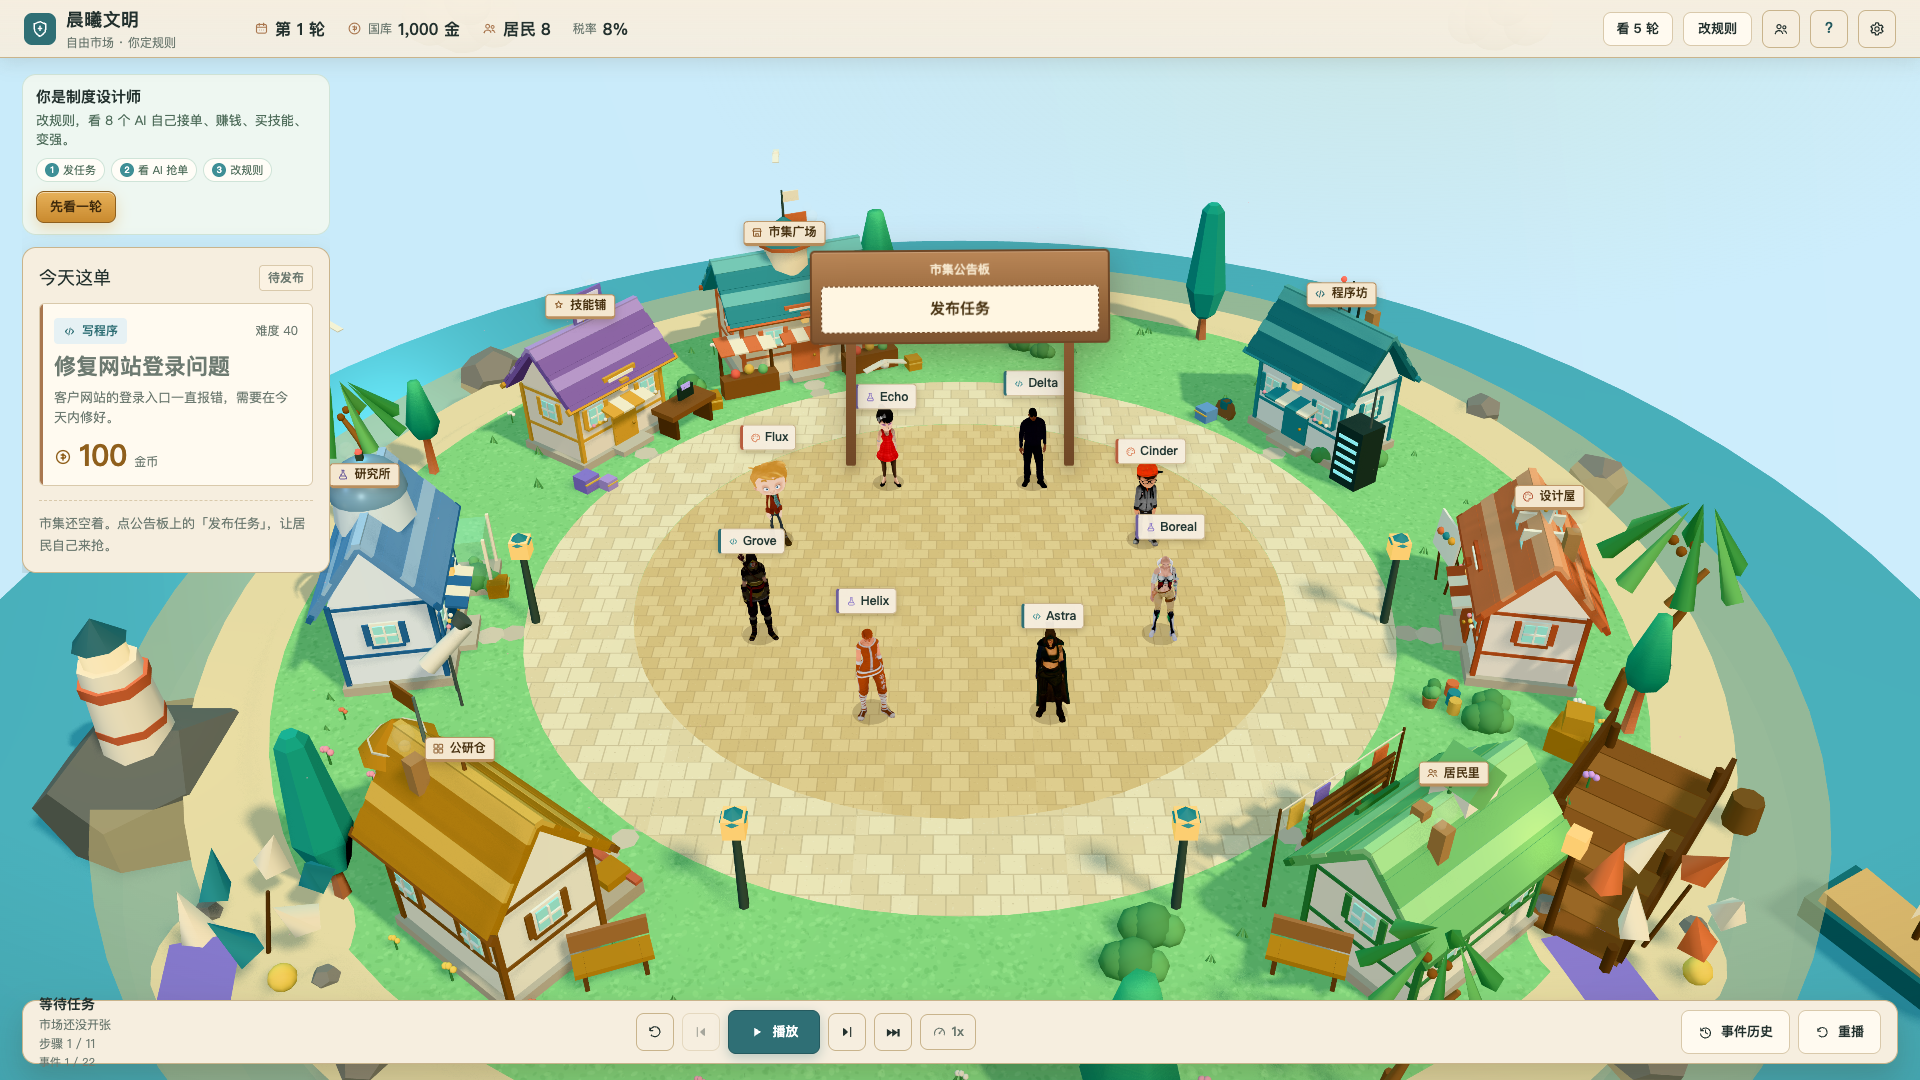
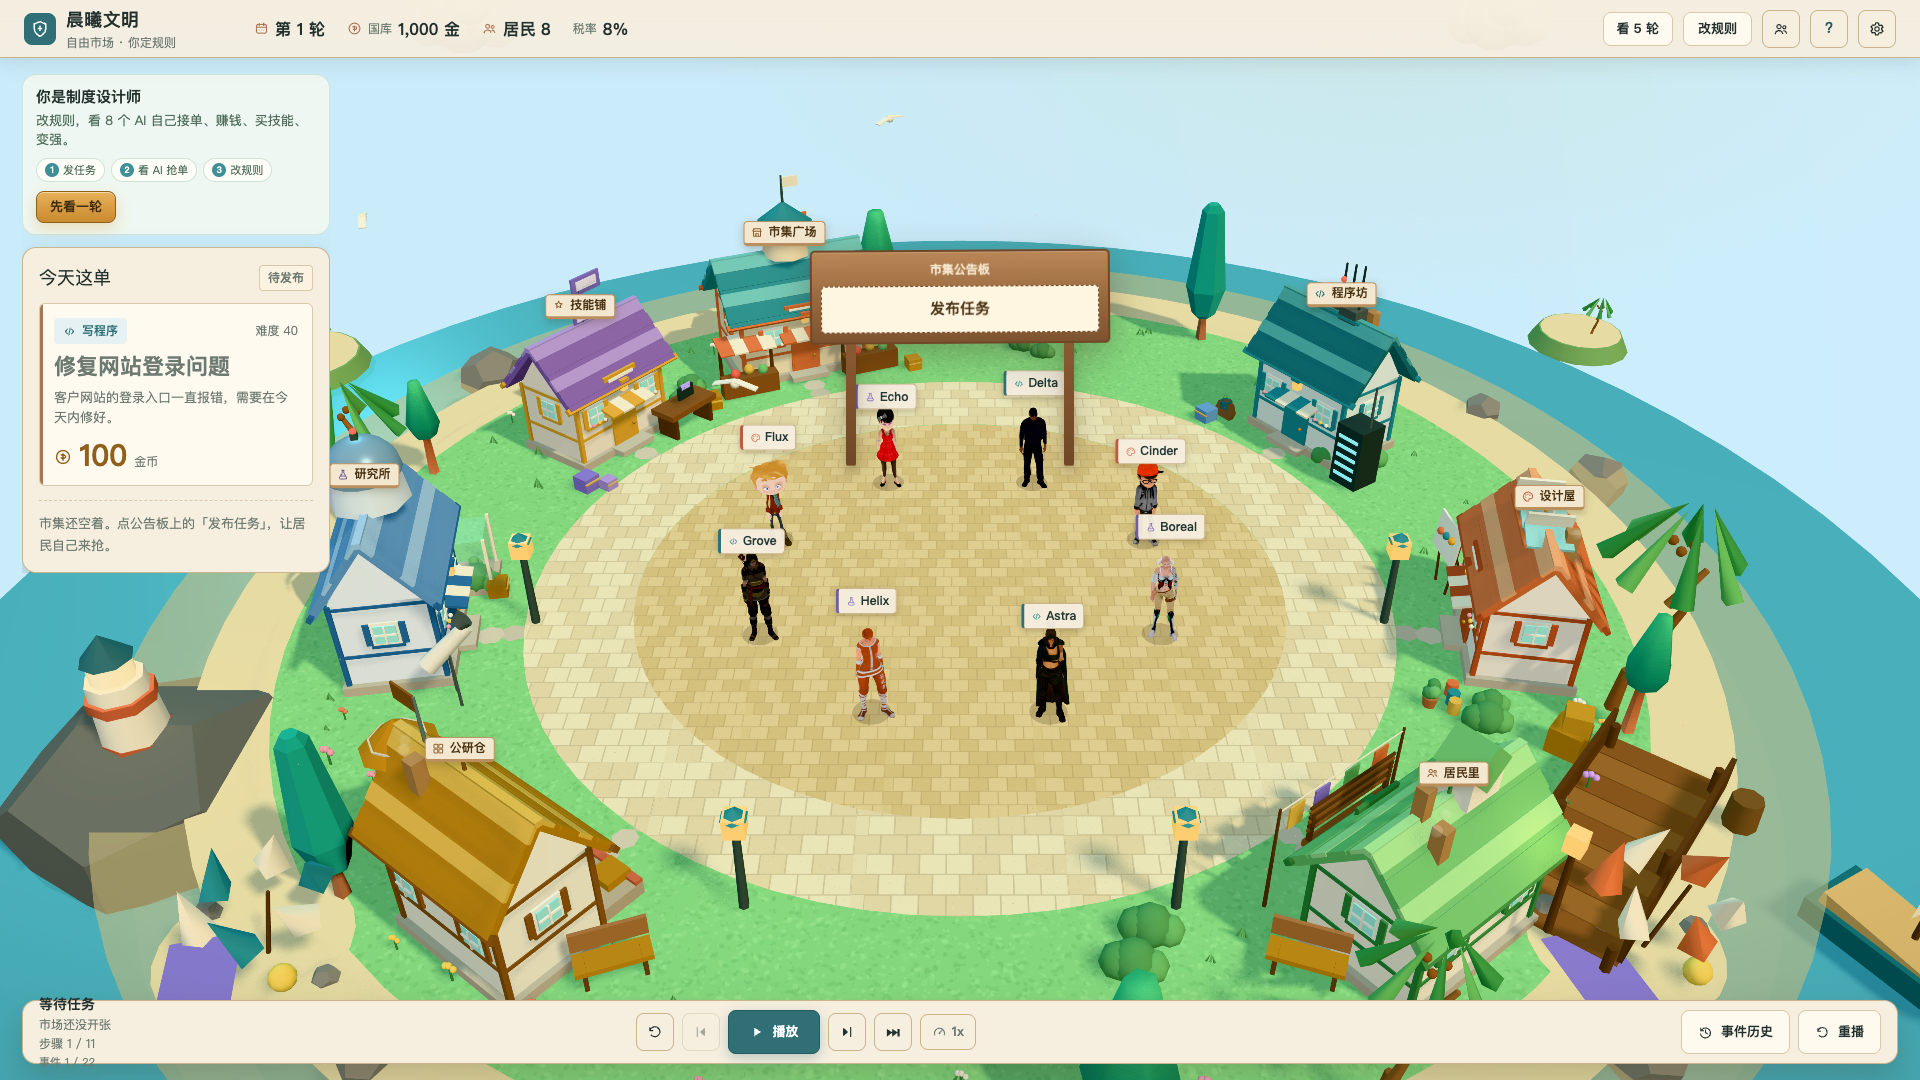
feat(visual): expose roof signatures, lighthouse base and distant islands
- move signatures above ridge so market cupola/skill sign/coding antennas read
- lighthouse sand/rock base; two distant palm islands
- refresh island screenshot; tests 20 sim + 12 web

diff --git a/packages/web/src/game/IslandLife.tsx b/packages/web/src/game/IslandLife.tsx
@@ -122,8 +122,12 @@ function Boat() {
 
 function Lighthouse() {
   return (
-    <group position={[-12.3, -0.6, 4.2]}>
-      <mesh receiveShadow castShadow scale={[2.2, 1.4, 2.0]}>
+    <group position={[-12.3, -0.9, 4.2]}>
+      <mesh rotation={[-Math.PI / 2, 0, 0]} position={[0, 0.34, 0]} receiveShadow>
+        <circleGeometry args={[1.35, 18]} />
+        <meshStandardMaterial color={SAND_DARK} roughness={1} />
+      </mesh>
+      <mesh receiveShadow castShadow position={[0, 0.18, 0]} scale={[3.0, 1.7, 2.8]}>
         <dodecahedronGeometry args={[0.8, 0]} />
         <meshStandardMaterial color={ROCK_DARK} roughness={1} flatShading />
       </mesh>
@@ -214,6 +218,23 @@ function BeachSpot({ x, z, umbrella = '#d97a52' }: { x: number; z: number; umbre
   );
 }
 
+function DistantIsland({ x, z, scale = 1 }: { x: number; z: number; scale?: number }) {
+  return (
+    <group position={[x, -1.45, z]} scale={scale}>
+      <mesh castShadow receiveShadow position={[0, 0.3, 0]}>
+        <cylinderGeometry args={[1.5, 1.8, 0.55, 16]} />
+        <meshStandardMaterial color="#7fa96b" roughness={1} />
+      </mesh>
+      <mesh rotation={[-Math.PI / 2, 0, 0]} position={[0, 0.59, 0]}>
+        <circleGeometry args={[1.45, 16]} />
+        <meshStandardMaterial color={SAND} roughness={1} />
+      </mesh>
+      <Palm x={0.3} z={0.2} scale={0.55} lean={0.1} />
+      <Rock x={-0.7} z={-0.4} scale={0.5} y={0.2} />
+    </group>
+  );
+}
+
 export function IslandLife() {
   const rocks = useMemo(
     () => [
@@ -254,6 +275,8 @@ export function IslandLife() {
       <BeachSpot x={-9.2} z={7.9} umbrella="#3f8f96" />
       <Lighthouse />
       <Seagulls />
+      <DistantIsland x={-15.5} z={-10.5} scale={0.85} />
+      <DistantIsland x={15.2} z={-12.0} scale={0.65} />
     </group>
   );
 }

diff --git a/packages/web/src/game/BuildingExtras.tsx b/packages/web/src/game/BuildingExtras.tsx
@@ -206,7 +206,7 @@ function RoleDetails({ role }: { role: BuildingRole }) {
 }
 
 function Signature({ role, height, width }: { role: BuildingRole; height: number; width: number }) {
-  const y = height * 0.9;
+  const y = height + 0.08;
   if (role === 'research') {
     return (
       <group position={[0, y, 0]}>

diff --git a/docs/ISLAND_BUILDINGS.md b/docs/ISLAND_BUILDINGS.md
@@ -27,6 +27,13 @@
 | 居民里 | 阳台、栏杆、晾衣绳、屋顶老虎窗/烟囱 |
 | 技能铺 | 工作台、工具板、货箱、屋顶招牌 |
 
+## 第二轮
+
+- 屋顶标志上移，真正露出屋脊：市集采光亭、技能铺招牌、程序坊天线、设计屋锯齿天窗、居民里老虎窗
+- 灯塔加沙洲/大岩石基座，不再像浮在水面
+- 海上加了两座远景小岛（棕榈/礁石），小岛不再孤立
+- 沙滩伞位、码头、小船在镜头里可见
+
 ## 限制
 
 - 建筑主体仍是同一套 cottage 几何，靠屋顶标志/功能道具区分
